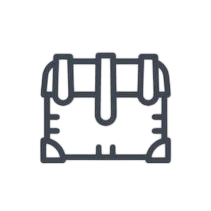
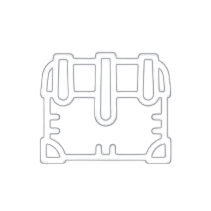
debut horaire page

Changed region(s): [[0.1706, 0.2275, 0.8246, 0.7962]]

diff --git a/src/components/Horaire/HorairePage.js b/src/components/Horaire/HorairePage.js
@@ -1,4 +1,5 @@
 import HoraireDialog from "./HoraireDialog";
+import ChestIcon from "../../images/chest_icon.png"
 
 
 export default function HorairePage () {
@@ -14,9 +15,48 @@ export default function HorairePage () {
 
         }}>
             <HoraireDialog
-                title={"Activités et Ptite Grenouille"}
+                title={"Activités et Ptite Gre"}
                 date={"02/09/2024"}
-                icon={<img src={"../images/chest_icon"} alt={""}/>} //TODO: turn image into icon
+                icon={<img src={ChestIcon}
+                           alt={""}
+                           style={{ width: '60px', height: '60px', color: "white" }}
+                />}
+                text={"Test"}
+            />
+            <HoraireDialog
+                title={"Rally appart"}
+                date={"03/09/2024"}
+                icon={<img src={ChestIcon}
+                           alt={""}
+                           style={{ width: '60px', height: '60px', color: "white" }}
+                />}
+                text={"Test"}
+            />
+            <HoraireDialog
+                title={"Ptite soirée relax"}
+                date={"04/09/2024"}
+                icon={<img src={ChestIcon}
+                           alt={""}
+                           style={{ width: '60px', height: '60px', color: "white" }}
+                />}
+                text={"Test"}
+            />
+            <HoraireDialog
+                title={"Festin"}
+                date={"05/09/2024"}
+                icon={<img src={ChestIcon}
+                           alt={""}
+                           style={{ width: '60px', height: '60px', color: "white" }}
+                />}
+                text={"Test"}
+            />
+            <HoraireDialog
+                title={"GROS PARTY !!!"}
+                date={"06/09/2024"}
+                icon={<img src={ChestIcon}
+                           alt={""}
+                           style={{ width: '60px', height: '60px', color: "white" }}
+                />}
                 text={"Test"}
             />
         </div>

diff --git a/src/components/Horaire/HoraireDialogStyle.css b/src/components/Horaire/HoraireDialogStyle.css
@@ -2,7 +2,7 @@
     display: grid;
     grid-template-rows: repeat(2, 1fr);
     grid-template-columns: repeat(12, 1fr);
-    gap: 0 15px;
+    gap: 0 12px;
     width: 100%;
     height: 100%;
 }
@@ -13,7 +13,7 @@
     align-self: center;
 }
 .title {
-    grid-area: 1 / 2 / 1 / 11;
+    grid-area: 1 / 2 / 1 / 12;
     align-items: start;
     align-self: end;
     font-size: large;
@@ -22,14 +22,14 @@
 }
 
 .date {
-    grid-area: 2 / 2 / 3 / 11;
+    grid-area: 2 / 2 / 3 / 12;
     justify-self: start;
     align-self: start;
     font-weight: 300;
     text-align: left;
 }
 .arrow {
-    grid-area: 1 / 11 / 3 / 13;
+    grid-area: 1 / 12 / 3 / 13;
     justify-self: end;
     align-self: center;
 }
@@ -38,16 +38,24 @@
     .title {
         font-size: 16px;
     }
-    .desc {
+    .date {
         font-size: 13px;
     }
 }
 @media (max-width: 1000px) {
     .title {
-        font-size: 14px;
+        font-size: 13px;
     }
-    .desc {
+    .date {
+        font-size: 11px;
+    }
+}
+@media (max-width: 800px) {
+    .title {
         font-size: 12px;
+    }
+    .date {
+        font-size: 10px;
     }
 }
 

diff --git a/src/components/Info/InfoDialogStyle.css b/src/components/Info/InfoDialogStyle.css
@@ -13,7 +13,7 @@
     align-self: center;
 }
 .title {
-    grid-area: 1 / 2 / 1 / 11;
+    grid-area: 1 / 2 / 1 / 12;
     align-items: start;
     align-self: end;
     font-size: large;
@@ -22,14 +22,14 @@
 }
 
 .desc {
-    grid-area: 2 / 2 / 3 / 11;
+    grid-area: 2 / 2 / 3 / 12;
     justify-self: start;
     align-self: start;
     font-weight: 300;
     text-align: left;
 }
 .arrow {
-    grid-area: 1 / 11 / 3 / 13;
+    grid-area: 1 / 12 / 3 / 13;
     justify-self: end;
     align-self: center;
 }
@@ -59,14 +59,26 @@
 }
 @media (max-width: 1000px) {
     .Header {
-        font-size: 12px; /* for small screens */
+        font-size: 13px; /* for small screens */
         margin: 0 20px 10px 30px;
     }
     .title {
-        font-size: 14px;
+        font-size: 13px;
     }
     .desc {
+        font-size: 11px;
+    }
+}
+@media (max-width: 800px) {
+    .Header {
         font-size: 12px;
+        margin: 0 20px 10px 30px;
+    }
+    .title {
+        font-size: 12px;
+    }
+    .desc {
+        font-size: 10px;
     }
 }
 

diff --git a/src/components/Horaire/HoraireDialog.js b/src/components/Horaire/HoraireDialog.js
@@ -2,6 +2,7 @@ import {useConfirm} from "material-ui-confirm";
 import {Button} from "@mui/material";
 import ExpandMoreIcon from '@mui/icons-material/ExpandMore';
 import * as React from "react";
+import "./HoraireDialogStyle.css"
 
 export default function HoraireDialog({ title, date, text, icon }) {
     const confirm = useConfirm();
@@ -29,6 +30,7 @@ export default function HoraireDialog({ title, date, text, icon }) {
                 //Do nothing
             })
     }
+
     return (
         <Button variant={'contained'}
                 size={'small'}

diff --git a/src/components/MainApp/SideBar.js b/src/components/MainApp/SideBar.js
@@ -52,7 +52,7 @@ const SideBar = () => {
 
     const [tab, setTab] = useState("")
     const navigate = useNavigate();
-    const [open, setOpen] = useState(true);
+    const [open, setOpen] = useState(false);
 
     const toggleDrawer = () => {
         setOpen(!open);
